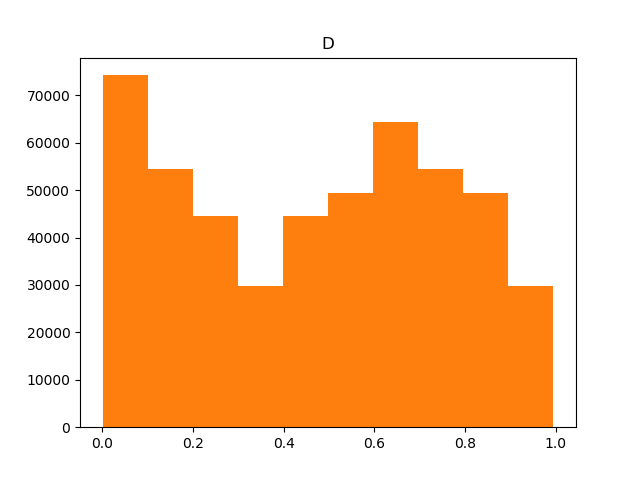
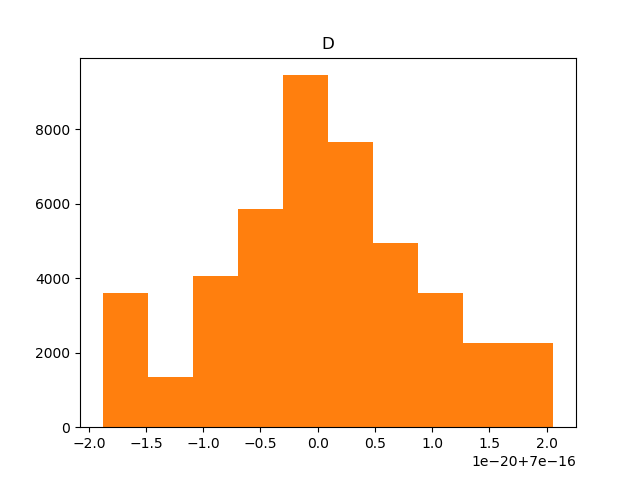
changed the way pos in defined in emceefit

diff --git a/emceefit.py b/emceefit.py
@@ -150,14 +150,14 @@ bnu = bdust(freqs,zavg)
 
 
 def lnlike(param,nu,S,yerr):
-    Y,D,dT,Teff=param
-    model=TCMB*f_nu(nu)*Y+pref * planck(nu*(1+z),Tdust) / dplanckT(nu)*D+dT+Y * gfuncrel(nu,Teff)
+    Y,D,dT=param
+    model=TCMB*f_nu(nu)*Y+pref * planck(nu*(1+z),Tdust) / dplanckT(nu)*D+dT#+Y * gfuncrel(nu,Teff)
     inv_sigma2 = 1.0/(yerr**2 + model**2)
     return -0.5*(np.sum((S-model)**2*inv_sigma2 - np.log(inv_sigma2)))
 
 def lnprior(param):
-    Y,D,dT,Teff=param
-    if -1e-15 < Y < -1e-16 and  1e-17< D < 1e-16 and -1e-16 < dT < 0 and -1e-15 < Teff < 0:
+    Y,D,dT=param
+    if -1e-15 < Y < -1e-16 and  1e-17< D < 1e-16 and -1e-16 < dT < 0:
         return 0.0
     return -np.inf
 
@@ -167,21 +167,23 @@ def lnprob(param, nu, S, yerr):
         return -np.inf
     return lp + lnlike(param,nu,S,yerr)
 
-freqarray=np.array(freqlist)
 
-ndim, nwalkers = 4, 100
-p0 = [np.random.rand(ndim) for i in xrange(nwalkers)]
+ndim, nwalkers = 3, 100
+guess=7e-16,3e-17,0.0
+pos = [guess + 1e-20*np.random.randn(ndim) for i in range(nwalkers)]
+#p0 = [np.random.rand(ndim) for i in xrange(nwalkers)]
 import emcee
-sampler = emcee.EnsembleSampler(nwalkers, ndim, lnprob, args=(freqarray, apmeans, aperrs))
-pos, prob, state = sampler.run_mcmc(p0, 200)
-sampler.reset()
+sampler = emcee.EnsembleSampler(nwalkers, ndim, lnprob, args=(freqlist, apmeans, aperrs))
+#pos, prob, state = sampler.run_mcmc(p0, 200)
+print(pos)
+#print(pos.shape)
+#sampler.reset()
 sampler.run_mcmc(pos, 500)
 samples = sampler.chain[:, 50:, :].reshape((-1, ndim))
 print(samples.shape)
 Y_samples=samples[:,0]
 D_samples=samples[:,0]
 dT_samples=samples[:,0]
-Teff_samples=samples[:,0]
 plt.hist(Y_samples)
 plt.title('Y')
 plt.savefig('Y mcmc values.png')
@@ -194,12 +196,12 @@ plt.hist(dT_samples)
 plt.title('dT')
 plt.savefig('dT mcmc values.png')
 
-plt.hist(Teff_samples)
-plt.title('Teff')
-plt.savefig('Teff mcmc values.png')
+# plt.hist(Teff_samples)
+# plt.title('Teff')
+# plt.savefig('Teff mcmc values.png')
 
 samples[:, 2] = np.exp(samples[:, 2])
-Y_mcmc, D_mcmc, dT_mcmc, Teff_mcmc = map(lambda v: (v[1], v[2]-v[1], v[1]-v[0]),
+Y_mcmc, D_mcmc, dT_mcmc = map(lambda v: (v[1], v[2]-v[1], v[1]-v[0]),
                              zip(*np.percentile(samples, [16, 50, 84],
                                                 axis=0)))
-print(Y_mcmc, D_mcmc, dT_mcmc, Teff_mcmc)
+print(Y_mcmc, D_mcmc, dT_mcmc)
